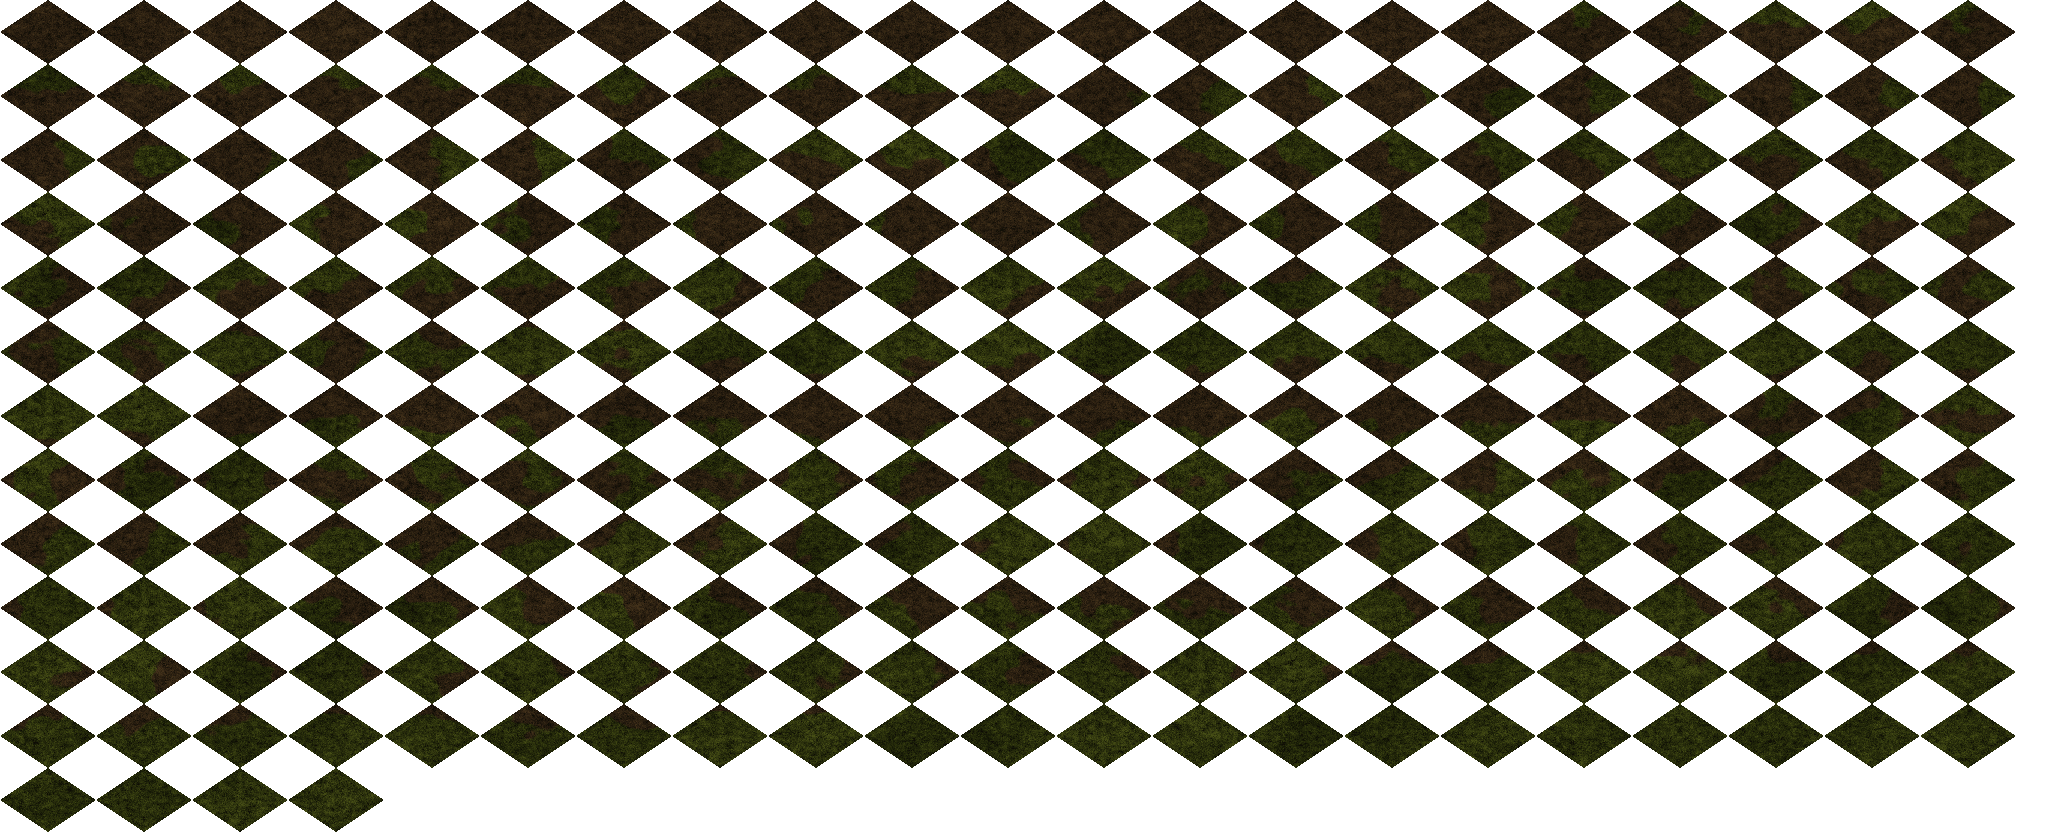
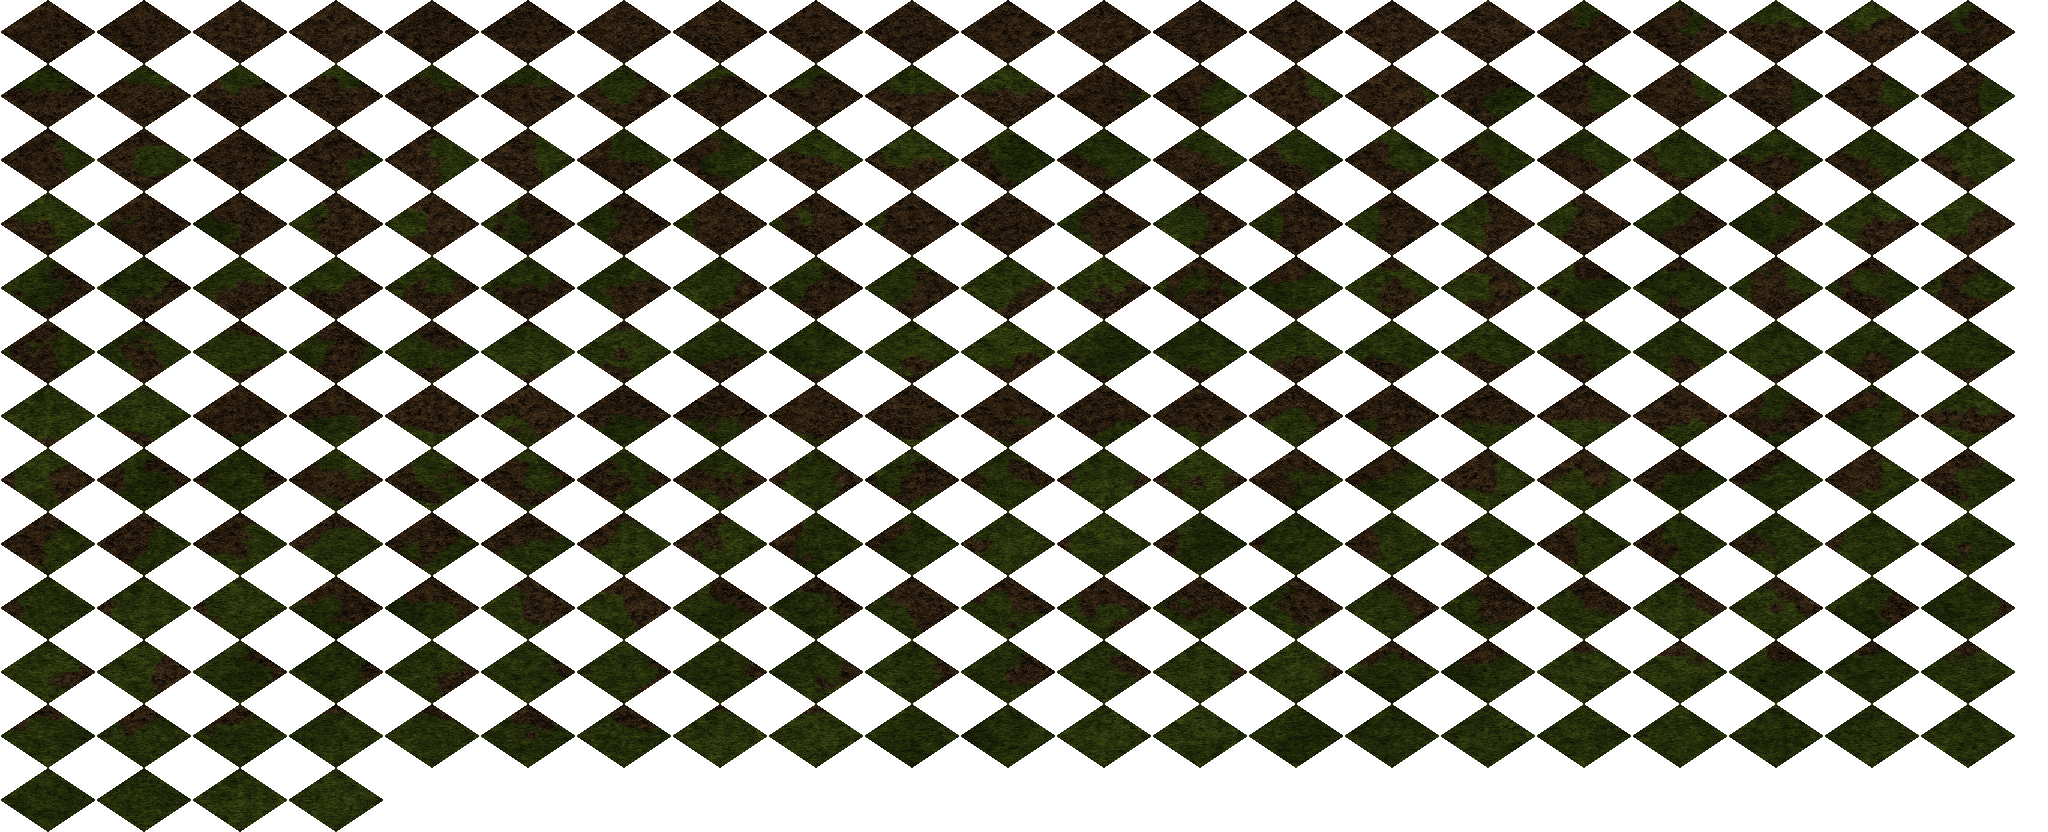
Crumbly dirt and finer grass for the first area's ground
The meadow dirt is now broken into lit clods with dark hollows, and the
grass is an even lawn with sideways blade grain, closer to the original's
look. Drawing the original maps, grass and dirt now meet along sharper
edges (less colour blending between materials), as the original's do.

Claude-Session: https://claude.ai/code/session_01UcMoCU5phFRDaz2VddJRC8

diff --git a/tools/art/ground.py b/tools/art/ground.py
@@ -62,26 +62,87 @@ def colour(base, dark, light, t, fine, grain):
     return c * (1 + grain * fine[..., None])
 
 
+def crumbs(rng, res, per_tile, keep, sharp=2.5):
+    """A wrapping res x res height field of rounded lumps, PERIOD tiles
+    across: one jittered point per grid cell (per_tile cells to a tile),
+    height = distance to the cell's border, and only `keep` of the cells
+    raised."""
+    g = PERIOD * per_tile
+    pts = (np.mgrid[0:g, 0:g].transpose(1, 2, 0) + rng.uniform(0.15, 0.85, (g, g, 2))) / g
+    raised = rng.random((g, g)) < keep
+    yy, xx = (np.mgrid[0:res, 0:res] + 0.5) / res
+    cy, cx = np.floor(yy * g).astype(int), np.floor(xx * g).astype(int)
+    d, idx = [], []
+    for dy in (-1, 0, 1):
+        for dx in (-1, 0, 1):
+            ny, nx = (cy + dy) % g, (cx + dx) % g
+            py = pts[ny, nx, 0] + np.floor((cy + dy) / g)
+            px = pts[ny, nx, 1] + np.floor((cx + dx) / g)
+            d.append((yy - py) ** 2 + (xx - px) ** 2)
+            idx.append(raised[ny, nx])
+    d, idx = np.stack(d), np.stack(idx)
+    order = np.argsort(d, axis=0)
+    d = np.take_along_axis(d, order, 0)
+    up = np.take_along_axis(idx, order[:1], 0)[0]
+    h = np.clip((np.sqrt(d[1]) - np.sqrt(d[0])) * g * sharp, 0, 1) ** 0.5
+    return h * up
+
+
 class Ground:
+    RES = 128  # samples per tile of the crumb relief
+
     def __init__(self, seed=1):
         self.big = Field([(0.9, 1.0), (0.35, 0.6)], seed)        # blotches
         self.fine = Field([(0.03, 1.0), (0.012, 0.8)], seed + 1)  # grain
         self.edge = Field([(0.25, 1.0), (0.08, 0.5)], seed + 2)  # ragged borders
         self.tuft = Field([(0.06, 1.0)], seed + 3)               # grass tufts
         self.rng = np.random.default_rng(seed + 4)               # per-pixel speckle
+        self._relief = None
+        self.seed = seed
+
+    def relief(self):
+        """The dirt's crumbly relief, built on first use: (height, light)
+        grids. Lit from the top of the screen, each crumb has a bright
+        upper rim and a dark shadow below."""
+        if self._relief is None:
+            rng = np.random.default_rng(self.seed + 7)
+            res = self.RES * PERIOD
+            h = np.zeros((res, res))
+            for per_tile, keep in ((9, 0.45), (16, 0.55), (26, 0.6)):
+                h = np.maximum(h, crumbs(rng, res, per_tile, keep) * (0.55 + 0.45 * 9 / per_tile))
+            # Screen up is -x -y in world space.
+            light = np.roll(h, (1, 1), (0, 1)) - np.roll(h, (-1, -1), (0, 1))
+            self._relief = h, light
+        return self._relief
+
+    def sample(self, grid, u, v):
+        res = grid.shape[0]
+        x = (np.asarray(u) % PERIOD) / PERIOD * res
+        y = (np.asarray(v) % PERIOD) / PERIOD * res
+        return grid[y.astype(int) % res, x.astype(int) % res]
 
     def texture(self, u, v):
         """Grass and dirt colours and the edge noise at tile coordinates."""
         big = self.big(u, v)
         # Speckle: mostly per-pixel noise, with a little of the finest field.
         fine = 0.85 * self.rng.standard_normal(np.shape(u)) + 0.5 * self.fine(u, v)
-        # Dark earth with a strong speckle and only faint patches.
-        dirt = colour(np.array([47, 35, 19.0]), np.array([32, 23, 12.0]), np.array([62, 48, 27.0]),
-                      0.08 * big, fine, 0.22)
+        # Dark earth broken into crumbs and clods: lit rims, dark hollows
+        # between them, and broad darker and lighter patches.
+        height, light = self.relief()
+        h, l = self.sample(height, u, v), self.sample(light, u, v)
+        shade = np.clip(1.8 * l, -1, 1) * 0.42 + 0.05 * big + 0.15 * (h - 0.35) + 0.1 * self.fine(u + 1.7, v + 0.9)
+        dirt = colour(np.array([46, 33, 18.0]), np.array([20, 13, 6.0]), np.array([82, 66, 48.0]),
+                      shade, fine, 0.24)
+        # Hollows between the clods, dark and a little deeper in damp patches.
+        hollow = np.clip(0.18 - h, 0, 0.18) / 0.18 * np.clip(0.6 - 0.4 * big, 0, 1)
+        dirt = dirt * (1 - 0.45 * hollow)[..., None]
         tuft = np.clip(self.tuft(u, v) * 0.8, -1, 1)
-        # Olive grass, finely grained, with gentle lighter and darker patches.
-        grass = colour(np.array([50, 55, 16.0]), np.array([32, 37, 9.0]), np.array([68, 73, 25.0]),
-                       0.15 * big + 0.15 * tuft, fine, 0.24)
+        # Grass: an even green lawn, finely grained, with only gentle patches.
+        # Blades: speckle drawn out sideways, as the original's lawns are.
+        blades = self.rng.standard_normal(np.shape(u))
+        blades = (blades + np.roll(blades, 1, -1) + np.roll(blades, -1, -1) + 0.5 * np.roll(blades, 2, -1)) / 1.9
+        grass = colour(np.array([44, 53, 15.0]), np.array([22, 30, 6.0]), np.array([64, 76, 22.0]),
+                       0.1 * big + 0.2 * tuft, 0.6 * blades + 0.55 * fine, 0.26)
         return grass, dirt, self.edge(u, v)
 
     def tile(self, tx, ty, corners):

diff --git a/src/formats/ground_skin.cpp b/src/formats/ground_skin.cpp
@@ -123,7 +123,7 @@ std::vector<std::uint32_t> paintGround(int x0, int y0, int w, int h, int margin,
 
     // How sharply a pixel goes over from one material to the next, in
     // squared colour distance.
-    constexpr float kSoftness = 120.0f;
+    constexpr float kSoftness = 40.0f;
     std::vector<float> weights;
     for (int y = 0; y < h; ++y) {
         for (int x = 0; x < w; ++x) {
